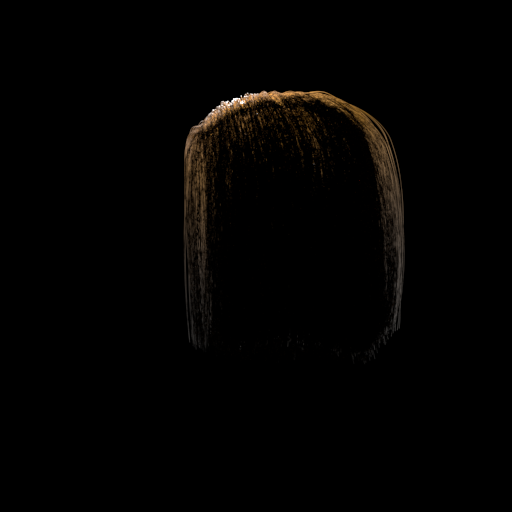
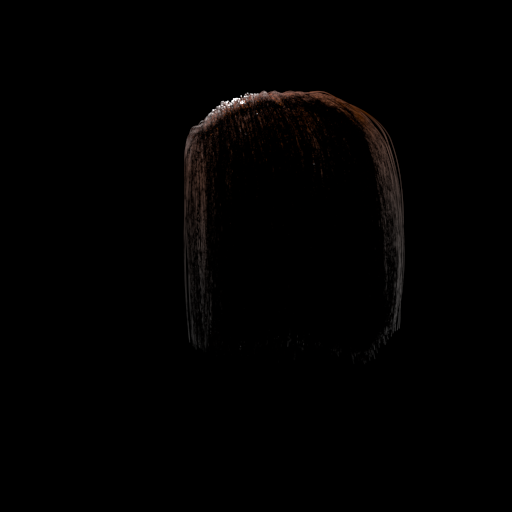
Changed transmittance function back according to paper marschner

Changed region(s): [[0.3438, 0.1562, 0.7812, 0.4062]]

diff --git a/src/pbrt/materials/marschner.cpp b/src/pbrt/materials/marschner.cpp
@@ -342,6 +342,11 @@ namespace pbrt {
 
         int numberRoots = SolveDepressedCubic(a, c, d, gammaRoots);
 
+        //assure roots are within range
+        for (int i = 0; i < numberRoots; ++i) {
+            gammaRoots[i] = asin(sin(gammaRoots))
+        }
+
         // make sure there is always 1 or 3 root(s) and gamma always between [-Pi/2, Pi/2]
         CHECK(numberRoots == 1 || numberRoots == 3);
         //        for (int i = 0; i < numberRoots; ++i) {
@@ -354,12 +359,12 @@ namespace pbrt {
     static Spectrum Transmittance(const Spectrum& sigmaA, Float gammaT, Float cosThetaT) {
 
         // PBRT implementation
-        Float cosGammaT = cos(gammaT);
-        return Exp(-sigmaA * (2 * cosGammaT / cosThetaT));
+        //Float cosGammaT = cos(gammaT);
+        //return Exp(-sigmaA * (2 * cosGammaT / cosThetaT));
 
         // My implementation, which is correct?
-        // Float cosGamma2T = AssurePositiveNonZero(cos(2.0 * gammaT));
-        // return Exp(-2.0 * (sigmaA / cosThetaT) * (1.0 + cosGamma2T));
+        Float cosGamma2T = AssurePositiveNonZero(cos(2.0 * gammaT));
+        return Exp(-2.0 * (sigmaA / cosThetaT) * (1.0 + cosGamma2T));
     }
 
     static Float DPhiDh_R(Float gamma_i) {
